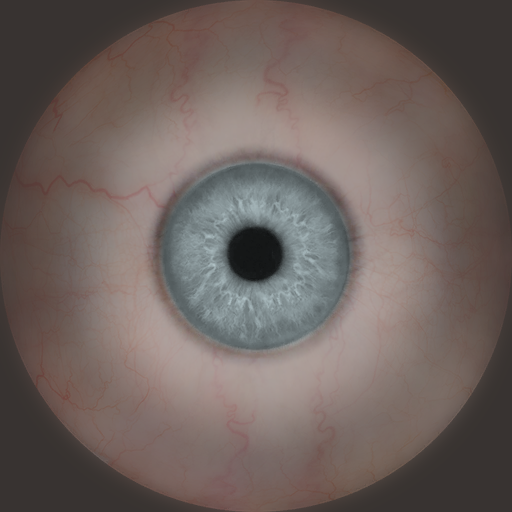
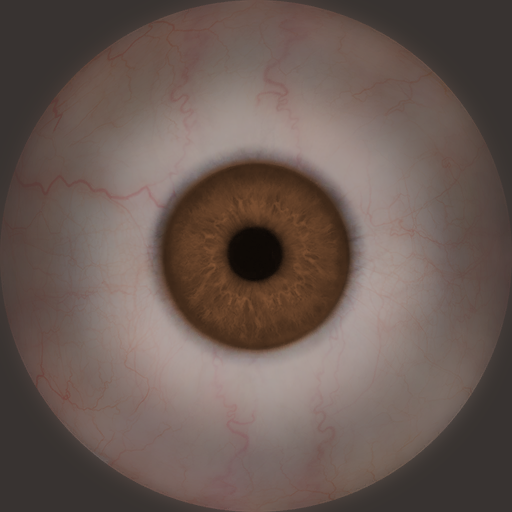
Kenny: dark brown eyes
Claude-Session: https://claude.ai/code/session_01RyRo3mh3ZakHSDewU65aFM

Changed region(s): [[0.3125, 0.3125, 0.6875, 0.6875]]

diff --git a/tools/assets/build_eyes.py b/tools/assets/build_eyes.py
@@ -180,7 +180,11 @@ AUBREY_AAA = EyeSpec(centre=(0.5, 0.5), mm_per_uv=30.0, size=512,
 ## level (0.94, 1.04, 1.06) it rendered black, (0, 0, 5) against a sclera of
 ## (51, 33, 34); lifted a quarter, (9, 8, 16), a dark slate. The sheet's
 ## arena photo has the iris at about half the white's level.
-KENNY_IRIS_TINT = (1.40, 1.54, 1.57)
+## 8 Nov, the owner: "Kenny's eyes should be dark brown" (the grey-blue and
+## a three-view's hazel were both wrong). Warm and dark: red over green over
+## blue, at a level that still reads as brown, not black, in the brow's
+## shade under match light (Cody's own level rendered black there).
+KENNY_IRIS_TINT = (1.02, 0.66, 0.42)
 KENNY = dataclasses.replace(CODY, sclera=(224, 204, 194), occluded_albedo=0.72)
 KENNY_IRIS_SCALE = 0.9
 ## The sheet's close-up is lit hard: a small pupil, about a quarter of the

diff --git a/README.md b/README.md
@@ -11528,3 +11528,7 @@ Sheet: `gauntlet/refs/characters/review/kenny_gear_pass7.jpg`. The rebuild is by
 Sheet: `kenny_body_pass9.jpg`.
 
 **Finger guns.** His signature walk-out pose is the "gun point" (TV Tropes), so `Kenny_Stage_Pose`'s point at the crowd is now both hands (`point_l`). The clips were rebuilt (295) and the strike and paired libraries re-baked. The clip gates pass: `test_sixty_fps`, `test_clip_cadence`, `test_pose_lint`, `test_clip_authoring_gate` (sha re-pinned) and `test_entrance_director`.
+
+**Eyes: dark brown.** The owner: "Kenny's eyes should be dark brown". `build_eyes.KENNY_IRIS_TINT` is now (1.02, 0.66, 0.42): warm and dark, and still brown rather than black in the brow's shade under match light.
+
+**The owner's studio three-view** (`gauntlet/refs/characters/kenny_3view.jpg`) was tried as the photo-fit's profile, its 12 outline points read off the silhouette. It would move his chin back 19 mm and his lower lip 11 mm. Its profile has the chin 21 px behind the brow; the sheet's has it ahead. That is a receding chin, the opposite of his, so it was not taken (no tilt or mirroring of the marks changes the solve). It stays as a hair and colour reference.
